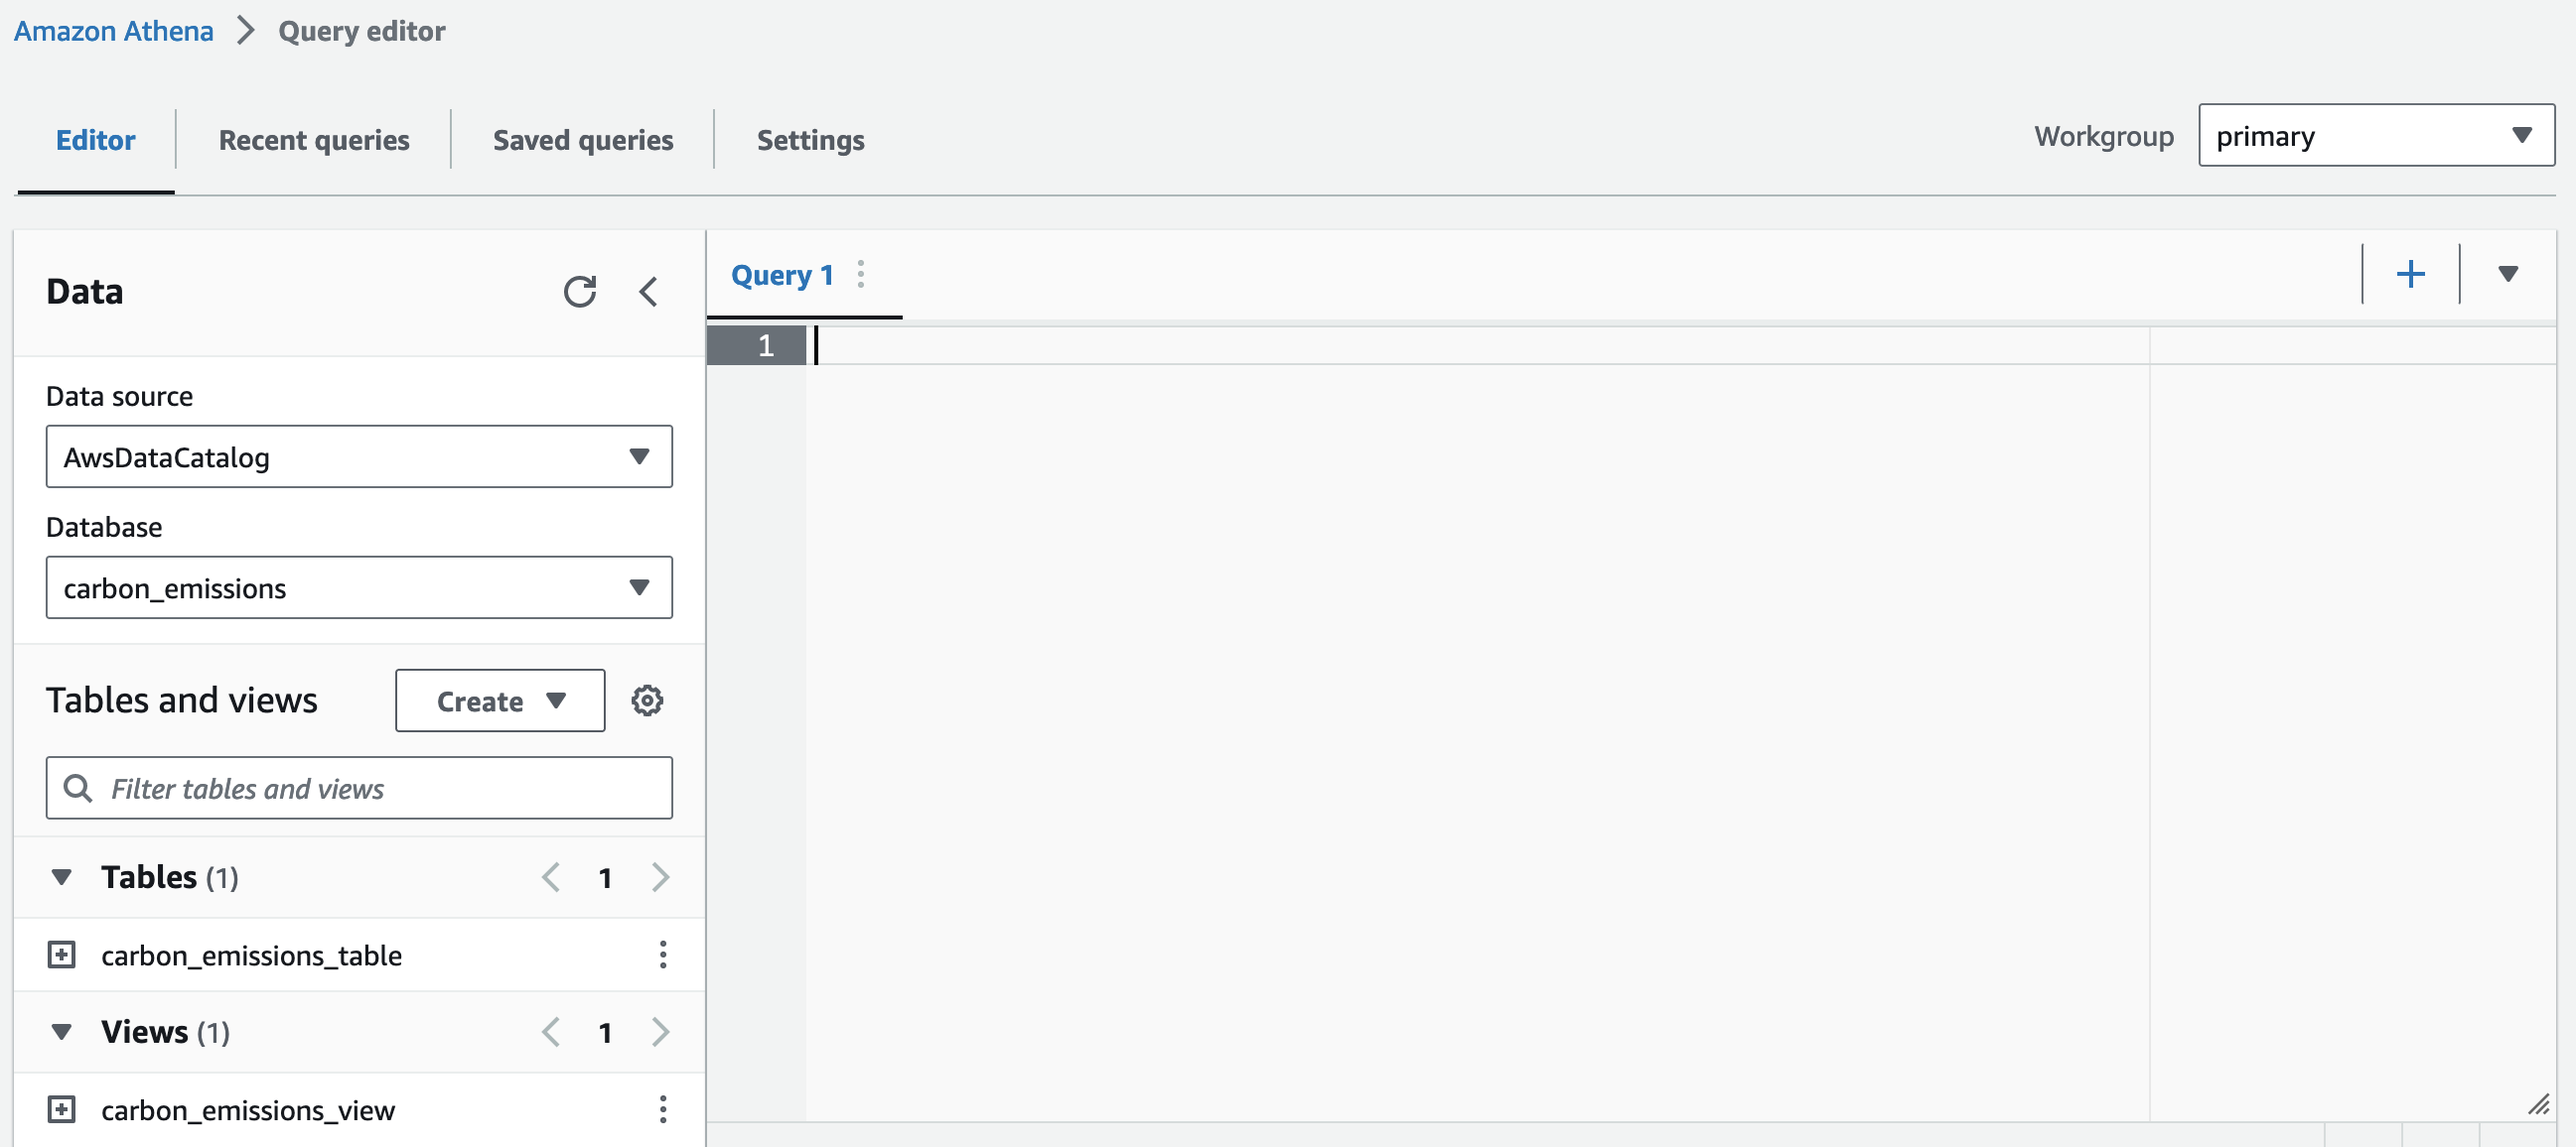
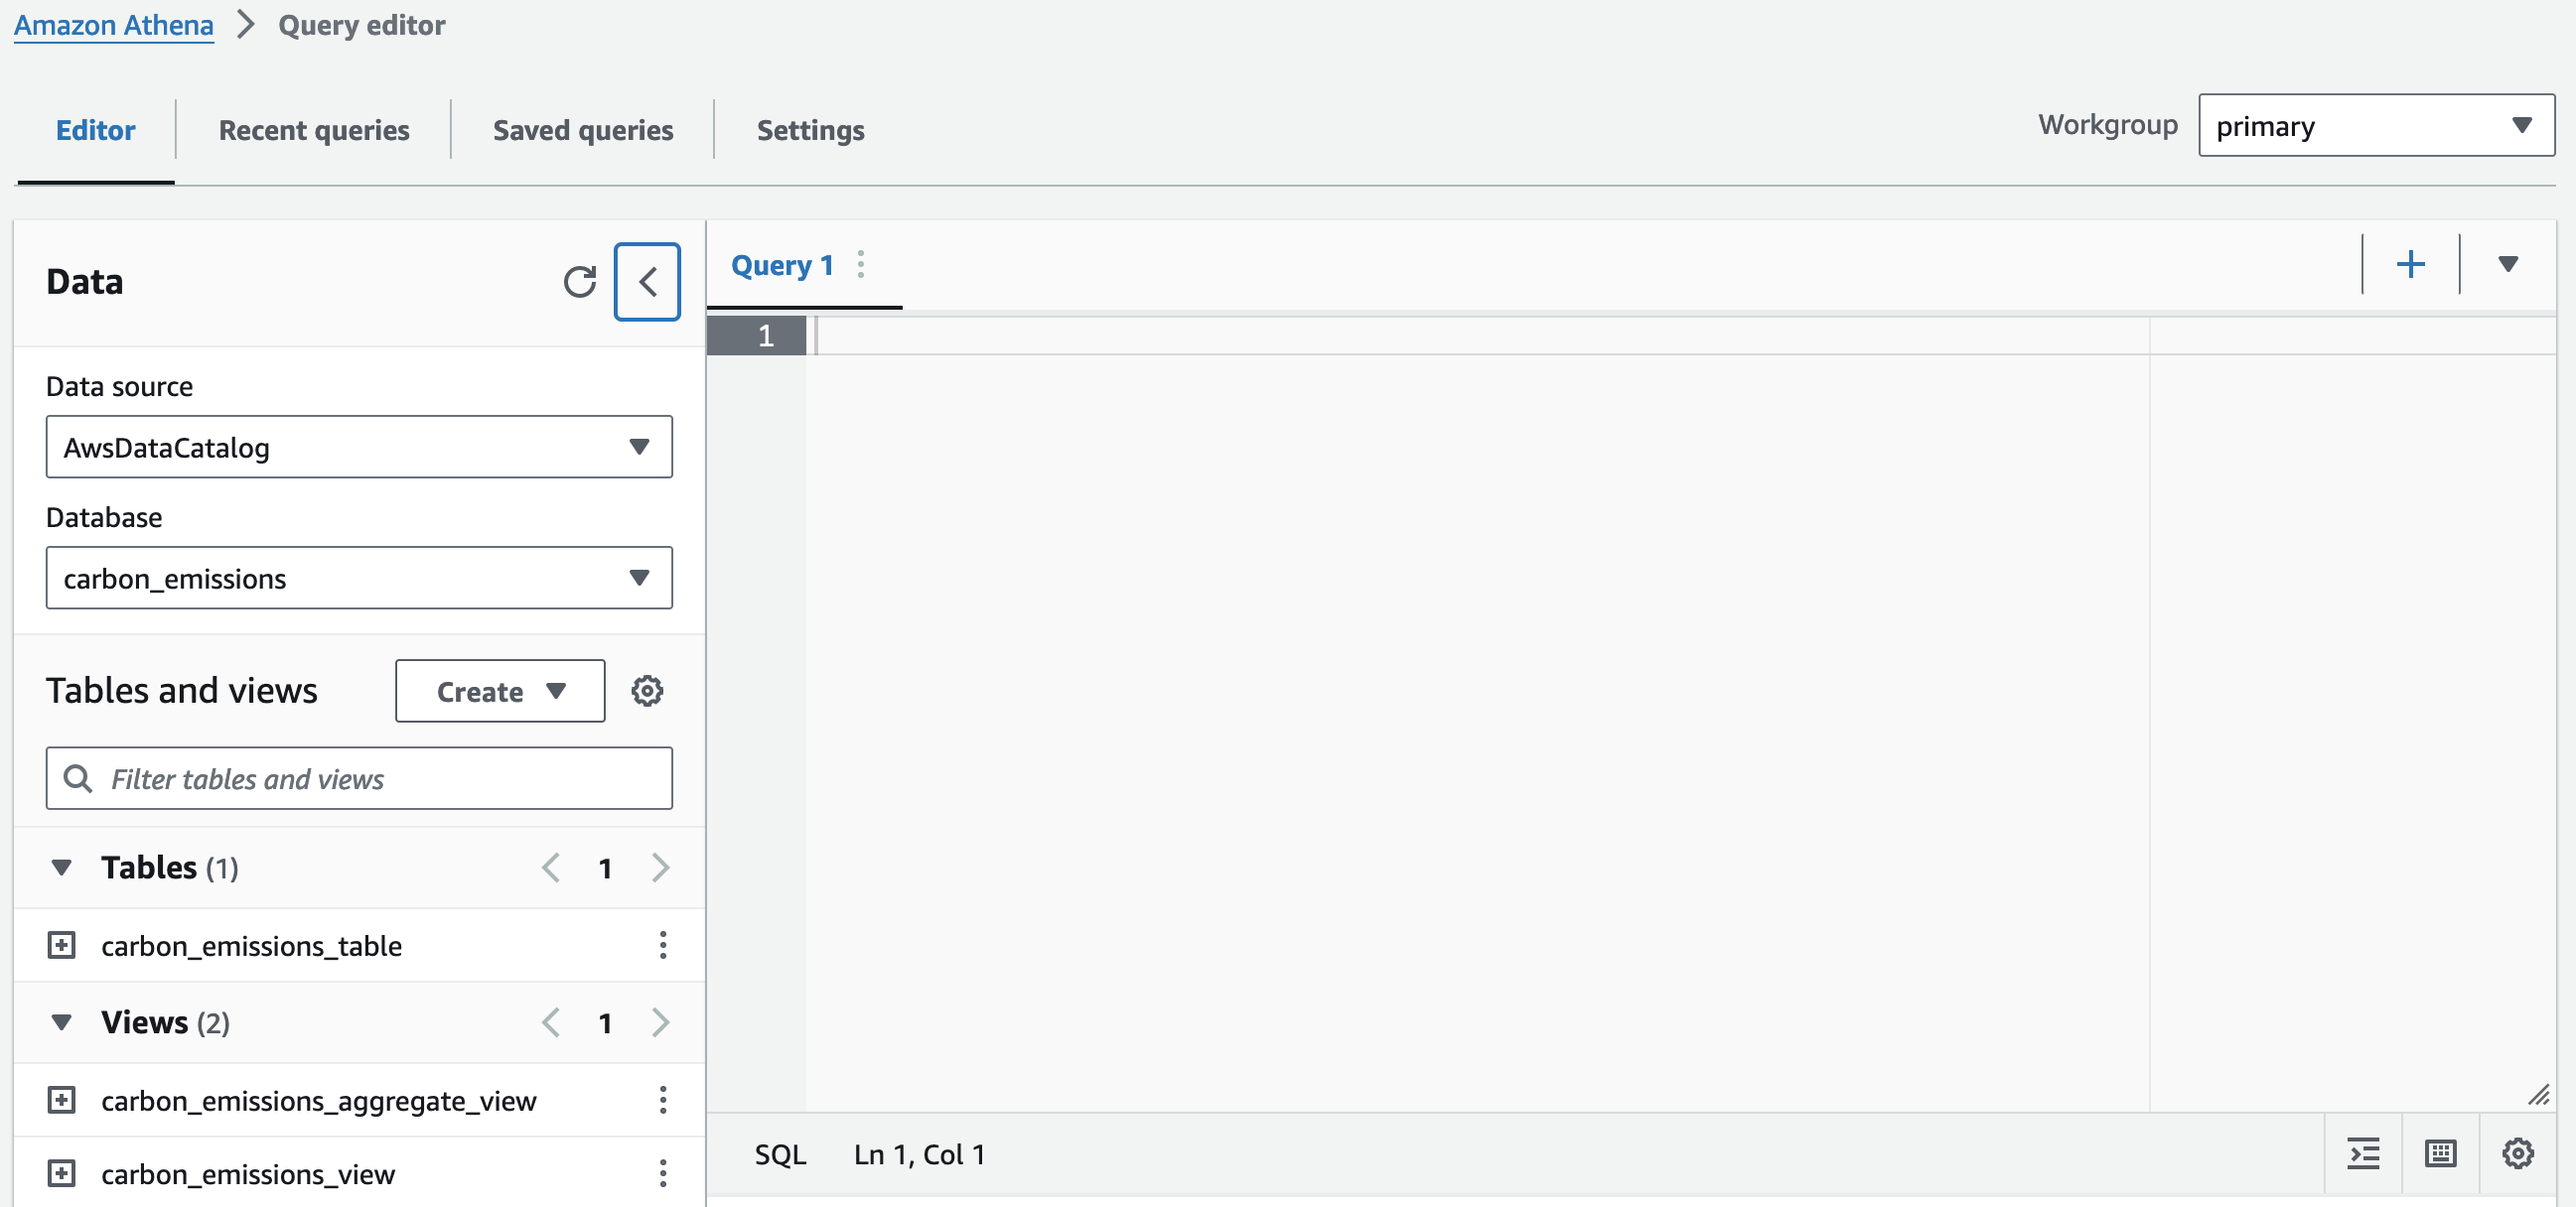
Updated Athena views with additional view carbon_emissions_aggregate_view

diff --git a/MultiAccountApplication/lambda-functions/5_create_alter_athena_view/create-alter-athena-view.py b/MultiAccountApplication/lambda-functions/5_create_alter_athena_view/create-alter-athena-view.py
@@ -25,8 +25,13 @@ def lambda_handler(event, context):
         create_table_query = create_table_template.replace('location', emissions_bucket)
     start_query_execution(create_table_query)
     
-    # create or replace Athena view
+    # create or replace Athena view carbon_emissions_view
     with open("create_view.sql", 'r') as sql:
+        create_view_query = sql.read()
+    start_query_execution(create_view_query)
+
+    # create or replace Athena view carbon_emissions_aggregate_view
+    with open("create_aggregate_view.sql", 'r') as sql:
         create_view_query = sql.read()
     start_query_execution(create_view_query)
 

diff --git a/README.md b/README.md
@@ -236,7 +236,7 @@ This SAM template deploys the following resources:
   - `check-first-invocation.py` : checks if a backfill of data is needed in case of first invocation
   - `backfill-data.py`: invokes the ccft_access.py script for a specific account for the past 40-4months and stores the data as one .json file in the `ccft-data` bucket (example: `2020-03-01to2023-03-01carbon_emissions.json`)
   - `extract-carbon-emissions-data.py` : executes the experimental programmatic access script for a given account ID and stores it in the `ccft-data` bucket as a .json file (example: `2023-04-01carbon_emissions.json`)
-  - `create-alter-athena-view.py` : creates an Athena database (if not exists) and an Athena table (if not exists), as well as creates or updates an Athena view which points to the `ccft-data` bucket
+  - `create-alter-athena-view.py` : creates an Athena database (if not exists) and an Athena table (if not exists), as well as creates or updates two Athena views which point to the `ccft-data` bucket
 - An AWS Step Function State Machine `ExtractCarbonEmissionsStateMachine`. You can find the definition in statemachine/extract_carbon_emissions.asl.json
 - An EventBridge scheduler `ExtractCarbonEmissionsFunctionScheduleEvent` as a trigger for the AWS Step Functions state machine which runs at the 15th day of every  month: cron(0 0 15 * ? *)
 - An IAM role `ccft-sam-script-ExtractCarbonEmissionsFunctionSche-{id}` for the EventBridge scheduler
@@ -259,7 +259,7 @@ You can find details on the resources that are created within the [`template.yam
 
 (6) If new monthly data is available, we can continue to extract the data for all accounts of an AWS organization. The state machine extracts triggers a Lambda function with the ccft-script to extract CCFT data for all account ID's, and stores the data within one .json file.
 
-(7) In the first invocation, an Athena database and table are created that point to the ccft-data bucket (in the case that this didn't happen yet in the backfill step). For every invocation, a view gets updated with the new data.
+(7) In the first invocation, an Athena database and table are created that point to the ccft-data bucket (in the case that this didn't happen yet in the backfill step). For every invocation, two views get updated with the new data.
 
 ### Q: How can I deploy the application?
 
@@ -375,7 +375,9 @@ You can change the timeframe in the Lambda function [`4_extract-carbon-emissions
 ### Q: What can I do with the data?
 As a result of a successful run through the state machine, new emissions data from the AWS Customer Carbon Footprint Tool will be available monthly in the S3 bucket `{AccountId}-{Region}-ccft-data` in .json format.
 
-To make it easier to use this data, the  state machine also creates an Athena table and view to directly query the data with SQL. Navigate to the Amazon Athena console and select the database **carbon_emissions**. You should see a table named `carbon_emissions_table` and a view called `carbon_emissions_view`. 
+To make it easier to use this data, the  state machine also creates an Athena table and two views to directly query the data with SQL. Navigate to the Amazon Athena console and select the database **carbon_emissions**. You should see a table named `carbon_emissions_table` and two views called `carbon_emissions_view` and `carbon_emissions_aggregate_view`. 
+
+`carbon_emissions_view` shows the monthly carbon emissions per account ID, product code and region code. `carbon_emissions_aggregate_view` shows the aggregated carbon emissions per account ID per month, and the respective entries for gridmixinefficiency and servermedianinefficiency.
 
 ![Athena Console Screenshot](/static/athena_table_view.png)
 
@@ -392,6 +394,7 @@ If you want to visualize the data, you can do so by using Amazon QuickSight. Che
 - If you're logged in to a management account of AWS Organizations, the customer carbon footprint tool reports an aggregate of the member account data for the duration that those accounts were a part of your management account. If you're logged in to a member account, the customer carbon footprint tool reports emission data for all the periods for this account. This is regardless of any changes that might have occurred to your account's associated membership in one of the AWS Organizations. 
 - If data isn't available for your account, your account might be too new to show data. After each month, you might have a delay of up to three months for AWS to show your carbon emission estimates.
 - If the emissions of an account for a specific month are `0`, `paceproductcode` and `regioncode` will be empty in the Athena view.
+- `servermedianinefficiency` and `gridmixinefficiency` data are provided per month per accountID, not in the granularity of `paceproductcode` and `regioncode`
 
 ###  What are costs for running this application?
 The cost for running this application depends on the number of accounts that are part of your organization. You can use this [AWS Pricing Calculator example](https://calculator.aws/#/estimate?id=1963803b68ed07e959eb8cbd2b7b3a7059bbfbfb) and adapt it to your requirements. There are no upfront cost to running this application; you pay for the resources that are created and used as part of the application. Major services used are the following:
